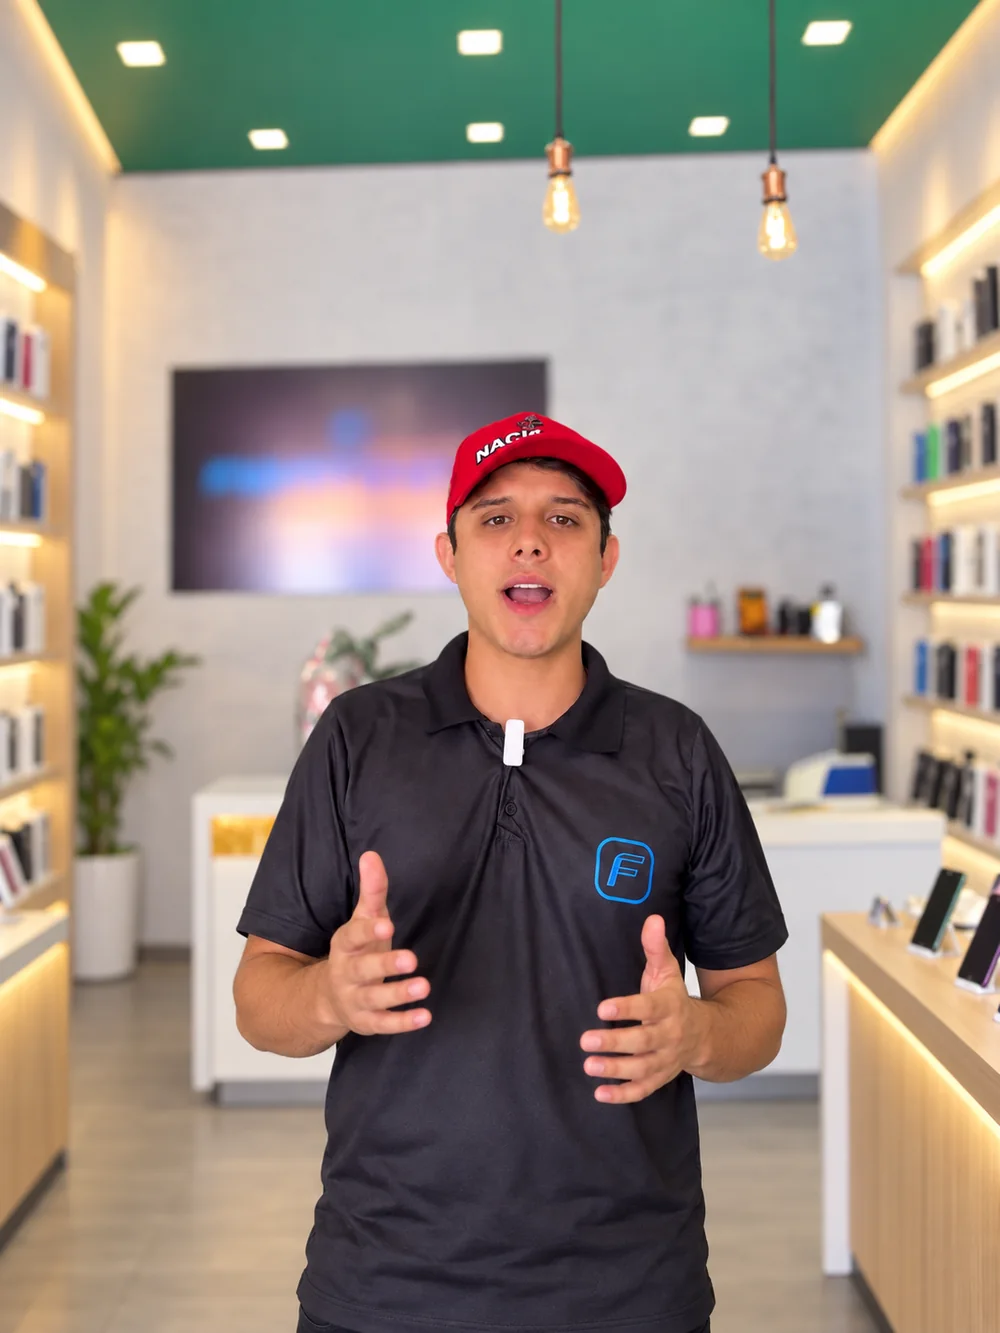
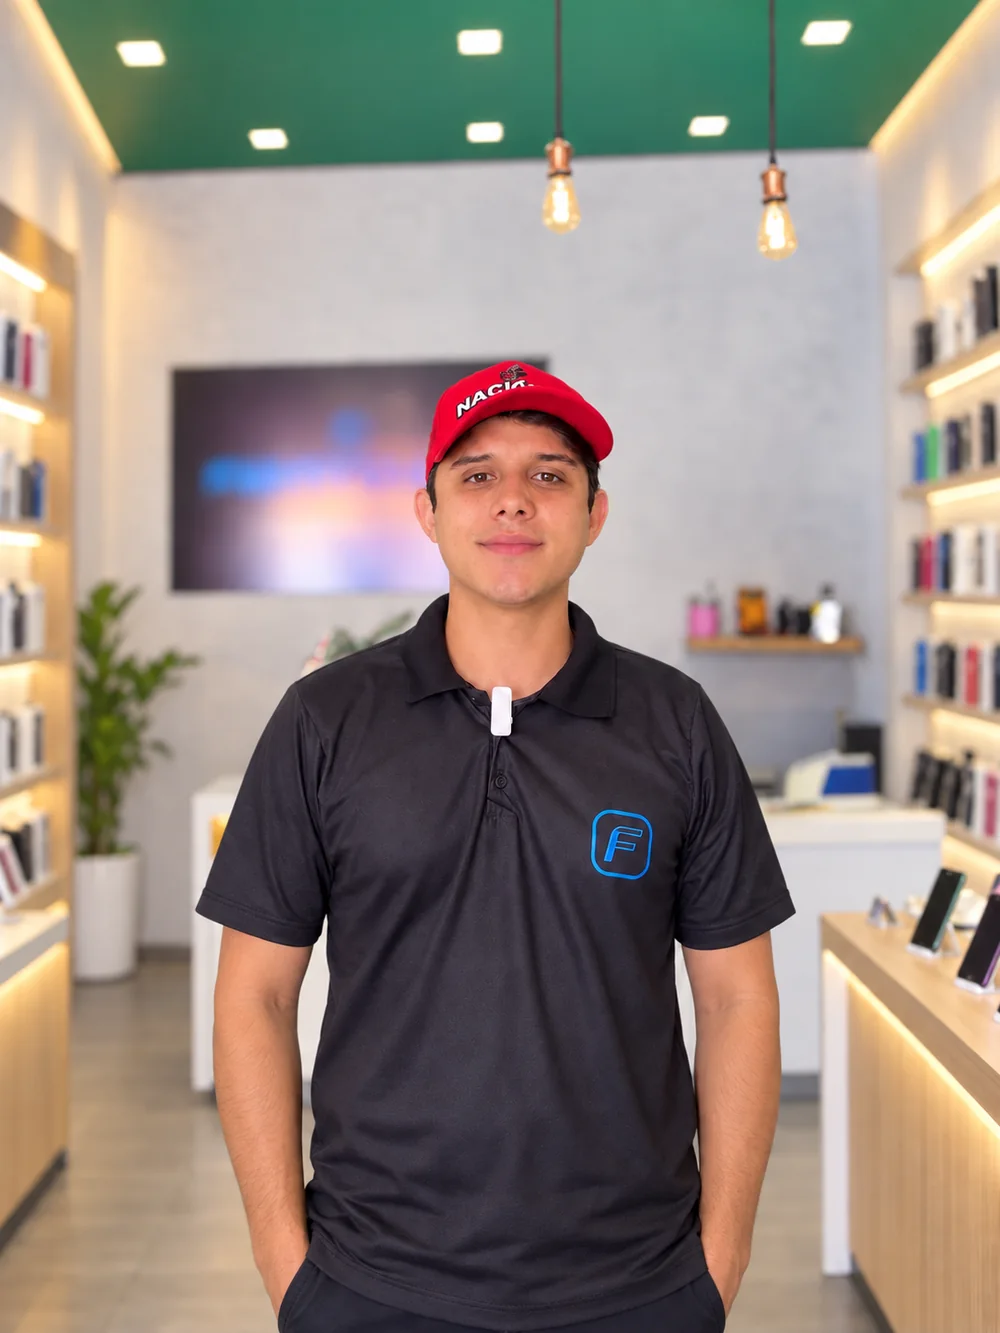
Rosto em cada estado do mapa, e as expressões corrigidas
TRÊS CORREÇÕES PEDIDAS PELO VICTOR.

1. Rosto nos outros sete estados. Antes só o Maranhão tinha gente: os demais
   eram pontos. Agora cada um dos oito tem um pino com retrato — lojista de
   material de construção, de roupas, de celulares, de mercadinho, de
   autopeças, de farmácia e de papelaria. Sete deles são pessoas GERADAS, e a
   página diz isso numa linha abaixo da lista: só os três do Maranhão são
   clientes reais, com depoimento em vídeo aqui mesmo. O que o mapa afirma —
   que ali já existe loja usando — é verdade nos oito.

2. A senhora do painel "Variedades" estava encostada na borda direita e de
   perfil, olhando para fora da página, enquanto os outros cinco estavam
   centrados e virados para o leitor. Refeita: centrada e olhando para quem lê.

3. Gabriel Landim e Neto (RN Grifes) vinham de quadro de vídeo com a boca
   aberta no meio de uma palavra. Refeitos com a boca fechada e um sorriso
   calmo, mantendo rosto, roupa e loja. Vale para os painéis da vitrine e para
   os avatares do mapa.

COMO OS PINOS FORAM CONFERIDOS: os oito estão DENTRO do caminho do próprio
estado (isPointInFill no ponto exato de cada um) e nenhum encosta no vizinho
(teste de sobreposição de retângulo, par a par). O do Piauí e o do Maranhão
colidiam; desci o do Piauí para o corpo do estado e subi o do Maranhão.

O pino virou <button>: no toque o balão abre ao tocar, e não fica aberto de
saída — oito balões abertos ao mesmo tempo viravam uma mancha e estouravam a
[…]

Changed region(s): [[0.186, 0.2461, 0.806, 1.0], [0.341, 0.9842, 0.496, 1.0]]

diff --git a/public/index.html b/public/index.html
@@ -40,7 +40,7 @@
     <link rel="preload" as="image" href="/assets/desktop.webp?v=e9a78a25ba" fetchpriority="high" media="(min-width: 62rem)" />
     <link rel="stylesheet"
         href="https://fonts.googleapis.com/css2?family=Archivo:wdth,wght@62.125,400.900&family=Geist:wght@400.700&display=swap" />
-    <link rel="stylesheet" href="sistema.css?v=56fd3eb3ab" />
+    <link rel="stylesheet" href="sistema.css?v=ee1b999874" />
     <link rel="icon" href="/assets/icones e favicon.svg" />
 
     <!-- Meta Pixel Code -->
@@ -471,8 +471,8 @@
 
             <div class="vitrine sangria">
                 <a class="vitrine__item vitrine__item--real" href="/segmentos/loja-de-celulares-e-acessorios/">
-                    <img src="/assets/lojistas/vitrine/celulares-e-acessorios-500.webp?v=4a04f63b2f"
-                         srcset="/assets/lojistas/vitrine/celulares-e-acessorios-500.webp?v=4a04f63b2f 500w, /assets/lojistas/vitrine/celulares-e-acessorios-1000.webp?v=a9902d023b 1000w"
+                    <img src="/assets/lojistas/vitrine/celulares-e-acessorios-500.webp?v=f38d21df04"
+                         srcset="/assets/lojistas/vitrine/celulares-e-acessorios-500.webp?v=f38d21df04 500w, /assets/lojistas/vitrine/celulares-e-acessorios-1000.webp?v=6397ac8f80 1000w"
                          sizes="(min-width: 72rem) 680px, (min-width: 48rem) 33vw, 50vw"
                          width="500" height="667" loading="lazy" decoding="async" alt="Gabriel Landim no balcão da sua loja de celulares e acessórios, cliente SoftPay" />
                     <span class="vitrine__selo">Gabriel Landim · cliente</span>
@@ -482,8 +482,8 @@
                     </span>
                 </a>
                 <a class="vitrine__item vitrine__item--real" href="/segmentos/loja-de-roupas/">
-                    <img src="/assets/lojistas/vitrine/loja-de-roupas-500.webp?v=d0a47513f9"
-                         srcset="/assets/lojistas/vitrine/loja-de-roupas-500.webp?v=d0a47513f9 500w, /assets/lojistas/vitrine/loja-de-roupas-1000.webp?v=8b5e72d22e 1000w"
+                    <img src="/assets/lojistas/vitrine/loja-de-roupas-500.webp?v=75d5dbff54"
+                         srcset="/assets/lojistas/vitrine/loja-de-roupas-500.webp?v=75d5dbff54 500w, /assets/lojistas/vitrine/loja-de-roupas-1000.webp?v=a108810659 1000w"
                          sizes="(min-width: 72rem) 680px, (min-width: 48rem) 33vw, 50vw"
                          width="500" height="667" loading="lazy" decoding="async" alt="Neto, da RN Grifes, no caixa da loja de roupas, cliente SoftPay" />
                     <span class="vitrine__selo">RN Grifes · cliente</span>
@@ -524,8 +524,8 @@
                     </span>
                 </a>
                 <a class="vitrine__item" href="/segmentos/loja-de-variedades/">
-                    <img src="/assets/lojistas/vitrine/loja-de-variedades-500.webp?v=f8a73c8d4c"
-                         srcset="/assets/lojistas/vitrine/loja-de-variedades-500.webp?v=f8a73c8d4c 500w, /assets/lojistas/vitrine/loja-de-variedades-1000.webp?v=082eb80e0a 1000w"
+                    <img src="/assets/lojistas/vitrine/loja-de-variedades-500.webp?v=0af24c50ec"
+                         srcset="/assets/lojistas/vitrine/loja-de-variedades-500.webp?v=0af24c50ec 500w, /assets/lojistas/vitrine/loja-de-variedades-1000.webp?v=56aa710cdb 1000w"
                          sizes="(min-width: 72rem) 680px, (min-width: 48rem) 33vw, 50vw"
                          width="500" height="667" loading="lazy" decoding="async" alt="Lojista organizando a prateleira da loja de variedades" />
                     <span class="vitrine__rotulo">
@@ -612,24 +612,59 @@
                             <path class="uf uf--ativo" data-uf="SP" d="M 417.0 426.3 L 419.6 420.3 L 415.9 418.9 L 412.2 419.8 L 408.9 411.6 L 411.0 407.9 L 408.1 405.0 L 408.5 400.5 L 405.5 397.5 L 399.7 397.9 L 399.0 400.0 L 397.8 398.6 L 395.9 400.3 L 394.1 398.5 L 393.6 400.2 L 385.3 400.5 L 384.0 404.8 L 382.8 400.7 L 379.9 402.9 L 378.7 402.0 L 378.9 397.6 L 367.7 396.9 L 360.7 394.7 L 347.7 403.5 L 331.8 430.9 L 321.4 438.3 L 329.1 437.4 L 334.6 439.1 L 336.3 436.7 L 342.1 439.0 L 348.8 439.0 L 354.4 440.9 L 355.8 443.3 L 367.9 442.5 L 372.9 447.4 L 373.5 457.0 L 379.6 464.8 L 378.0 469.6 L 389.0 470.1 L 389.2 476.1 L 393.9 474.7 L 394.8 478.0 L 397.2 478.4 L 396.1 479.6 L 399.9 474.4 L 414.7 462.8 L 422.0 459.0 L 424.4 459.4 L 427.7 456.2 L 435.8 456.9 L 436.2 453.7 L 443.7 449.2 L 446.4 449.7 L 443.9 447.6 L 445.4 443.8 L 453.2 441.5 L 454.6 439.5 L 451.5 437.6 L 447.5 438.0 L 445.1 435.0 L 436.3 438.8 L 431.4 437.8 L 430.1 439.5 L 431.6 440.6 L 429.3 442.1 L 422.2 442.6 L 422.4 440.5 L 420.3 439.6 L 421.2 437.3 L 416.6 433.5 L 418.2 431.1 L 416.6 430.0 L 418.1 428.7 L 417.0 426.3 Z M 437.9 457.4 L 438.8 456.2 L 437.2 455.3 L 435.4 457.8 L 438.2 458.9 L 437.9 457.4 Z"><title>São Paulo: já tem loja usando o SoftPay</title></path>
                             <path class="uf" d="M 406.0 189.6 L 404.1 174.8 L 398.5 171.4 L 392.1 170.3 L 386.3 173.1 L 391.7 173.8 L 395.4 177.8 L 393.2 179.1 L 394.0 182.3 L 391.1 185.8 L 391.8 188.9 L 390.1 188.5 L 387.6 193.3 L 379.5 197.3 L 379.8 202.0 L 377.0 206.0 L 380.4 210.9 L 378.4 219.6 L 367.1 233.6 L 358.7 254.6 L 356.6 266.9 L 358.2 273.4 L 357.2 285.1 L 359.2 288.1 L 365.6 281.3 L 363.4 288.1 L 377.1 294.7 L 379.1 288.8 L 380.9 287.3 L 383.0 289.9 L 384.5 287.5 L 388.6 291.5 L 388.9 295.4 L 389.8 292.7 L 390.6 294.8 L 395.4 292.9 L 395.0 295.2 L 400.2 295.3 L 402.3 297.7 L 403.2 292.1 L 408.2 294.6 L 416.1 290.1 L 420.6 290.1 L 421.1 287.8 L 421.8 290.4 L 425.7 289.3 L 422.7 289.7 L 424.4 282.9 L 421.8 280.5 L 421.0 275.6 L 423.6 274.0 L 421.7 273.2 L 422.3 269.2 L 426.1 269.4 L 420.8 267.8 L 418.7 265.1 L 424.9 254.6 L 430.0 251.5 L 431.8 247.2 L 428.7 250.2 L 426.9 247.2 L 421.9 247.1 L 419.7 241.4 L 417.7 240.5 L 418.8 236.5 L 414.7 233.6 L 413.7 230.4 L 411.6 229.9 L 414.7 221.1 L 419.2 218.7 L 420.4 214.9 L 418.3 212.2 L 411.7 214.6 L 403.6 205.2 L 405.0 202.9 L 401.4 201.8 L 404.3 198.7 L 406.0 189.6 Z"></path>
                     </svg>
-                        <span class="mapa__pulso" style="--x: 43.67%; --y: 46.82%" aria-hidden="true"></span>
-                        <span class="mapa__pulso" style="--x: 50.33%; --y: 24.59%" aria-hidden="true"></span>
-                        <span class="mapa__pulso" style="--x: 85.37%; --y: 35.35%" aria-hidden="true"></span>
-                        <span class="mapa__pulso" style="--x: 73.84%; --y: 32.99%" aria-hidden="true"></span>
-                        <span class="mapa__pulso" style="--x: 53.73%; --y: 75.81%" aria-hidden="true"></span>
-                        <span class="mapa__pulso" style="--x: 74.52%; --y: 69.76%" aria-hidden="true"></span>
-                        <span class="mapa__pulso" style="--x: 60.39%; --y: 69.93%" aria-hidden="true"></span>
-                    <div class="mapa__pino" style="--x: 69.60%; --y: 28.60%">
+                    <button type="button" class="mapa__pino mapa__pino--baixo mapa__pino--um" style="--x: 50.33%; --y: 24.59%" data-uf="PA">
                         <span class="mapa__rostos">
-                            <img src="/assets/mapa/rn-grifes.webp?v=83c968af6c" width="320" height="320" loading="lazy" decoding="async" alt="Neto, da RN Grifes" />
-                            <img src="/assets/mapa/gabriel-landim.webp?v=394f2d84b6" width="320" height="320" loading="lazy" decoding="async" alt="Gabriel Landim" />
+                            <img src="/assets/mapa/uf-pa.webp?v=2247a70e70" width="320" height="320" loading="lazy" decoding="async" alt="Lojista de material de construção" />
+                        </span>
+                        <span class="mapa__balao"><b>Pará</b>já tem loja usando o SoftPay</span>
+                    </button>
+                    <button type="button" class="mapa__pino mapa__pino--baixo mapa__pino--um mapa__pino--dir" style="--x: 72.60%; --y: 37.60%" data-uf="PI">
+                        <span class="mapa__rostos">
+                            <img src="/assets/mapa/uf-pi.webp?v=afe3773663" width="320" height="320" loading="lazy" decoding="async" alt="Lojista de loja de roupas" />
+                        </span>
+                        <span class="mapa__balao"><b>Piauí</b>já tem loja usando o SoftPay</span>
+                    </button>
+                    <button type="button" class="mapa__pino mapa__pino--baixo mapa__pino--um mapa__pino--dir" style="--x: 85.37%; --y: 35.35%" data-uf="PE">
+                        <span class="mapa__rostos">
+                            <img src="/assets/mapa/uf-pe.webp?v=383398b96e" width="320" height="320" loading="lazy" decoding="async" alt="Lojista de celulares e acessórios" />
+                        </span>
+                        <span class="mapa__balao"><b>Pernambuco</b>já tem loja usando o SoftPay</span>
+                    </button>
+                    <button type="button" class="mapa__pino mapa__pino--um" style="--x: 43.67%; --y: 46.82%" data-uf="MT">
+                        <span class="mapa__rostos">
+                            <img src="/assets/mapa/uf-mt.webp?v=e7d19c6d71" width="320" height="320" loading="lazy" decoding="async" alt="Lojista de mercadinho" />
+                        </span>
+                        <span class="mapa__balao"><b>Mato Grosso</b>já tem loja usando o SoftPay</span>
+                    </button>
+                    <button type="button" class="mapa__pino mapa__pino--um" style="--x: 60.39%; --y: 69.93%" data-uf="SP">
+                        <span class="mapa__rostos">
+                            <img src="/assets/mapa/uf-sp.webp?v=5df7580696" width="320" height="320" loading="lazy" decoding="async" alt="Lojista de autopeças" />
+                        </span>
+                        <span class="mapa__balao"><b>São Paulo</b>já tem loja usando o SoftPay</span>
+                    </button>
+                    <button type="button" class="mapa__pino mapa__pino--um mapa__pino--dir" style="--x: 74.52%; --y: 69.76%" data-uf="RJ">
+                        <span class="mapa__rostos">
+                            <img src="/assets/mapa/uf-rj.webp?v=478d5a55b6" width="320" height="320" loading="lazy" decoding="async" alt="Atendente de farmácia" />
+                        </span>
+                        <span class="mapa__balao"><b>Rio de Janeiro</b>já tem loja usando o SoftPay</span>
+                    </button>
+                    <button type="button" class="mapa__pino mapa__pino--um" style="--x: 53.73%; --y: 75.81%" data-uf="PR">
+                        <span class="mapa__rostos">
+                            <img src="/assets/mapa/uf-pr.webp?v=0a9b828816" width="320" height="320" loading="lazy" decoding="async" alt="Lojista de papelaria" />
+                        </span>
+                        <span class="mapa__balao"><b>Paraná</b>já tem loja usando o SoftPay</span>
+                    </button>
+                    <button type="button" class="mapa__pino mapa__pino--baixo mapa__pino--tres mapa__pino--dir" style="--x: 68.00%; --y: 26.60%" data-uf="MA">
+                        <span class="mapa__rostos">
+                            <img src="/assets/mapa/rn-grifes.webp?v=c2ab87705e" width="320" height="320" loading="lazy" decoding="async" alt="Neto, da RN Grifes" />
+                            <img src="/assets/mapa/gabriel-landim.webp?v=0dfc0d35e0" width="320" height="320" loading="lazy" decoding="async" alt="Gabriel Landim" />
                             <img src="/assets/mapa/naldo-bebidas.webp?v=3bf8437f32" width="320" height="320" loading="lazy" decoding="async" alt="Dono da Naldo Bebidas" />
                         </span>
                         <span class="mapa__balao">
                             <b>Maranhão</b>
                             RN Grifes, FortCel e Naldo Bebidas gravaram o depoimento deles
                         </span>
-                    </div>
+                    </button>
                 </div>
             </div>
 
@@ -644,6 +679,11 @@
                     <li><button type="button" data-realce="RJ">Rio de Janeiro</button></li>
                     <li><button type="button" data-realce="PR">Paraná</button></li>
                 </ul>
+                <p class="mapa__nota">
+                    Os três lojistas do Maranhão são clientes reais, com depoimento em vídeo
+                    nesta página. Nos demais estados o retrato é ilustrativo — o que o mapa
+                    afirma é que ali já existe loja usando o SoftPay.
+                </p>
             </div>
 
             <div class="shell mapa__numeros">

diff --git a/public/sistema.css b/public/sistema.css
@@ -1744,31 +1744,25 @@ a.so-leitor:focus {
     .mapa__svg .uf--ativo:hover { fill: var(--acento); }
 }
 
-/* --------------------------------------------------------------- OS PULSOS
-   Um ponto por estado aceso. O halo cresce e some — é o sinal de "tem gente
-   vendendo aqui agora", e some inteiro com "menos movimento". */
-.mapa__pulso {
-    position: absolute; left: var(--x); top: var(--y);
-    width: 0.625rem; height: 0.625rem; margin: -0.3125rem 0 0 -0.3125rem;
-    border-radius: 50%;
-    background: var(--acento);
-    box-shadow: 0 0 0 3px rgba(6, 18, 31, 0.55);
-}
-.mapa__pulso::after {
-    content: ""; position: absolute; inset: -0.25rem;
+/* ---------------------------------------------------------------- O HALO
+   Atrás de cada rosto, um anel que cresce e some: é o sinal de "tem gente
+   vendendo aqui agora". Some inteiro com "menos movimento". */
+.mapa__rostos::before {
+    content: ""; position: absolute; inset: -0.35rem;
     border-radius: 50%; border: 1.5px solid var(--acento);
-    opacity: 0;
+    opacity: 0; pointer-events: none;
 }
 @media (prefers-reduced-motion: no-preference) {
-    .mapa__pulso::after { animation: mapa-pulso 3.2s ease-out infinite; }
-    .mapa__pulso:nth-of-type(2n)::after { animation-delay: 0.7s; }
-    .mapa__pulso:nth-of-type(3n)::after { animation-delay: 1.4s; }
-    .mapa__pulso:nth-of-type(5n)::after { animation-delay: 2.1s; }
+    .mapa__rostos::before { animation: mapa-pulso 3.4s ease-out infinite; }
+    .mapa__pino:nth-of-type(2n) .mapa__rostos::before { animation-delay: 0.6s; }
+    .mapa__pino:nth-of-type(3n) .mapa__rostos::before { animation-delay: 1.3s; }
+    .mapa__pino:nth-of-type(5n) .mapa__rostos::before { animation-delay: 2.0s; }
+    .mapa__pino:nth-of-type(7n) .mapa__rostos::before { animation-delay: 2.6s; }
 }
 @keyframes mapa-pulso {
-    0%   { transform: scale(0.6); opacity: 0.9; }
-    70%  { transform: scale(2.6); opacity: 0; }
-    100% { transform: scale(2.6); opacity: 0; }
+    0%   { transform: scale(0.85); opacity: 0.85; }
+    70%  { transform: scale(1.9);  opacity: 0; }
+    100% { transform: scale(1.9);  opacity: 0; }
 }
 
 /* ----------------------------------------------------------------- O PINO
@@ -1777,20 +1771,34 @@ a.so-leitor:focus {
 .mapa__pino {
     position: absolute; left: var(--x); top: var(--y);
     transform: translate(-50%, -50%);
+    /* é um botão: no toque o balão abre ao tocar, e não fica aberto de saída —
+       com oito pinos, oito balões abertos ao mesmo tempo viram uma mancha e
+       ainda estouram a página (medido: 26px a 360px). */
+    padding: 0; border: 0; background: none; cursor: pointer;
+    line-height: 0;
 }
-.mapa__rostos { display: flex; }
+.mapa__pino:focus-visible { outline: 2px solid var(--acento); outline-offset: 4px; border-radius: 50%; }
+/* o pino sob o ponteiro vem para a frente dos vizinhos */
+@media (hover: hover) and (pointer: fine) {
+    .mapa__pino:hover, .mapa__pino:focus-within { z-index: 3; }
+}
+.mapa__rostos { position: relative; display: flex; }
 .mapa__rostos img {
-    width: 2.25rem; height: 2.25rem; border-radius: 50%;
+    width: 1.875rem; height: 1.875rem; border-radius: 50%;
     object-fit: cover;
     border: 2px solid var(--branco);
     box-shadow: 0 8px 20px -6px rgba(6, 18, 31, 0.9);
     background: var(--noite-2);
 }
-.mapa__rostos img + img { margin-left: -0.8rem; }
+.mapa__rostos img + img { margin-left: -0.7rem; }
+/* O Maranhão tem três lojistas com depoimento: o pino dele é maior, e é o
+   único que traz nome de gente. */
+.mapa__pino--tres .mapa__rostos img { width: 2rem; height: 2rem; }
 @media (min-width: 62rem) {
+    .mapa__rostos img { width: 2.375rem; height: 2.375rem; }
     /* 2,5rem e não 3,25: com três avatares sobrepostos, o pino tem de caber
        DENTRO do Maranhão — a 3,25rem ele transbordava para o Piauí. */
-    .mapa__rostos img { width: 2.5rem; height: 2.5rem; }
+    .mapa__pino--tres .mapa__rostos img { width: 2.5rem; height: 2.5rem; }
     .mapa__rostos img + img { margin-left: -0.9rem; }
 }
 
@@ -1816,26 +1824,30 @@ a.so-leitor:focus {
    mapa. Daí o teto de 50vw: em 320px (o caso mais apertado) dá 160px contra
    178px de folga. Medido: 0 de estouro de 320 a 1440. */
 
-/* No toque o balão fica sempre visível, e aí ele tem de cair para BAIXO do
-   pino: o Maranhão está a 28,6% da altura do mapa e um balão de 96px acima
-   dele saía por cima da peça (medido em 390px). */
-@media not all and (hover: hover) {
-    .mapa__balao { top: calc(100% + 0.6rem); bottom: auto; }
-    .mapa__balao::after {
-        top: auto; bottom: 100%;
-        transform: rotate(45deg) translateY(0.3125rem);
-    }
+/* Nos pinos do topo do mapa (acima de 40% da altura) o balão cai para BAIXO:
+   acima deles não há espaço dentro da peça. */
+.mapa__pino--baixo .mapa__balao { top: calc(100% + 0.6rem); bottom: auto; }
+.mapa__pino--baixo .mapa__balao::after {
+    top: auto; bottom: 100%;
+    transform: rotate(45deg) translateY(0.3125rem);
 }
-/* No desktop o balão só aparece quando o ponteiro chega; no toque ele fica. */
-@media (hover: hover) and (pointer: fine) {
-    .mapa__balao {
-        opacity: 0; transform: translateX(-50%) translateY(6px);
-        transition: opacity 0.28s linear, transform 0.28s var(--mola);
-        pointer-events: none;
-    }
-    .mapa__pino:hover .mapa__balao,
-    .mapa__pino:focus-within .mapa__balao { opacity: 1; transform: translateX(-50%); }
+/* O balão fica fechado até o ponteiro chegar ou o dedo tocar. */
+.mapa__balao {
+    opacity: 0; pointer-events: none;
+    transform: translateX(-50%) translateY(6px);
+    transition: opacity 0.28s linear, transform 0.28s var(--mola);
 }
+.mapa__pino:hover .mapa__balao,
+.mapa__pino:focus .mapa__balao,
+.mapa__pino:focus-within .mapa__balao { opacity: 1; transform: translateX(-50%); }
+
+/* Pino na metade direita do mapa: o balão cresce para a esquerda, senão sai
+   pela borda da página (Pernambuco está a 85,4% da largura). */
+.mapa__pino--dir .mapa__balao { left: auto; right: 0; transform: translateY(6px); }
+.mapa__pino--dir:hover .mapa__balao,
+.mapa__pino--dir:focus .mapa__balao,
+.mapa__pino--dir:focus-within .mapa__balao { transform: none; }
+.mapa__pino--dir .mapa__balao::after { left: auto; right: 1rem; margin-left: 0; }
 @media (prefers-reduced-motion: reduce) {
     .mapa__balao { transition: none; }
 }
@@ -1905,3 +1917,12 @@ a.so-leitor:focus {
 }
 .mapa__ufs button.e-realce { color: var(--branco); }
 .mapa__ufs button.e-realce::before { background: var(--acento); transform: scale(1.35); }
+
+/* Nota de integridade: sete dos oito retratos são pessoas geradas, e a página
+   diz isso. O que o mapa afirma — que ali existe loja usando — é verdade nos
+   oito. Sem esta linha, o rosto passaria por cliente identificado. */
+.mapa__nota {
+    max-width: 44rem; margin: var(--sp-4) auto 0;
+    font-size: var(--t-xs); line-height: 1.5; text-align: center;
+    color: rgba(255, 255, 255, 0.5);
+}
